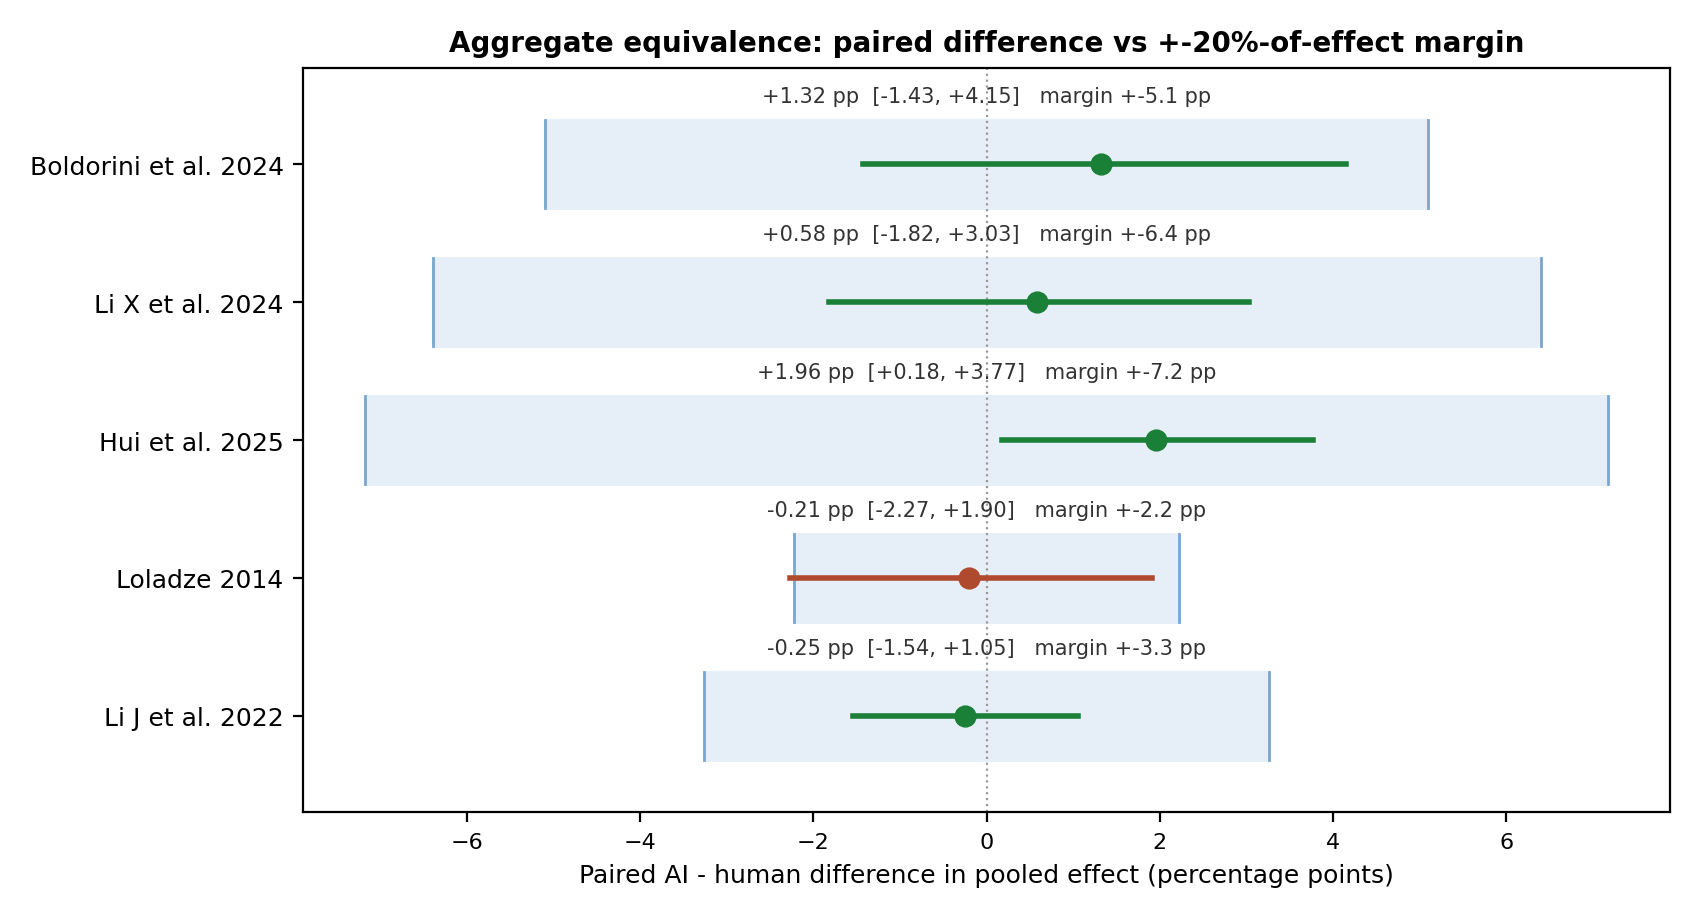
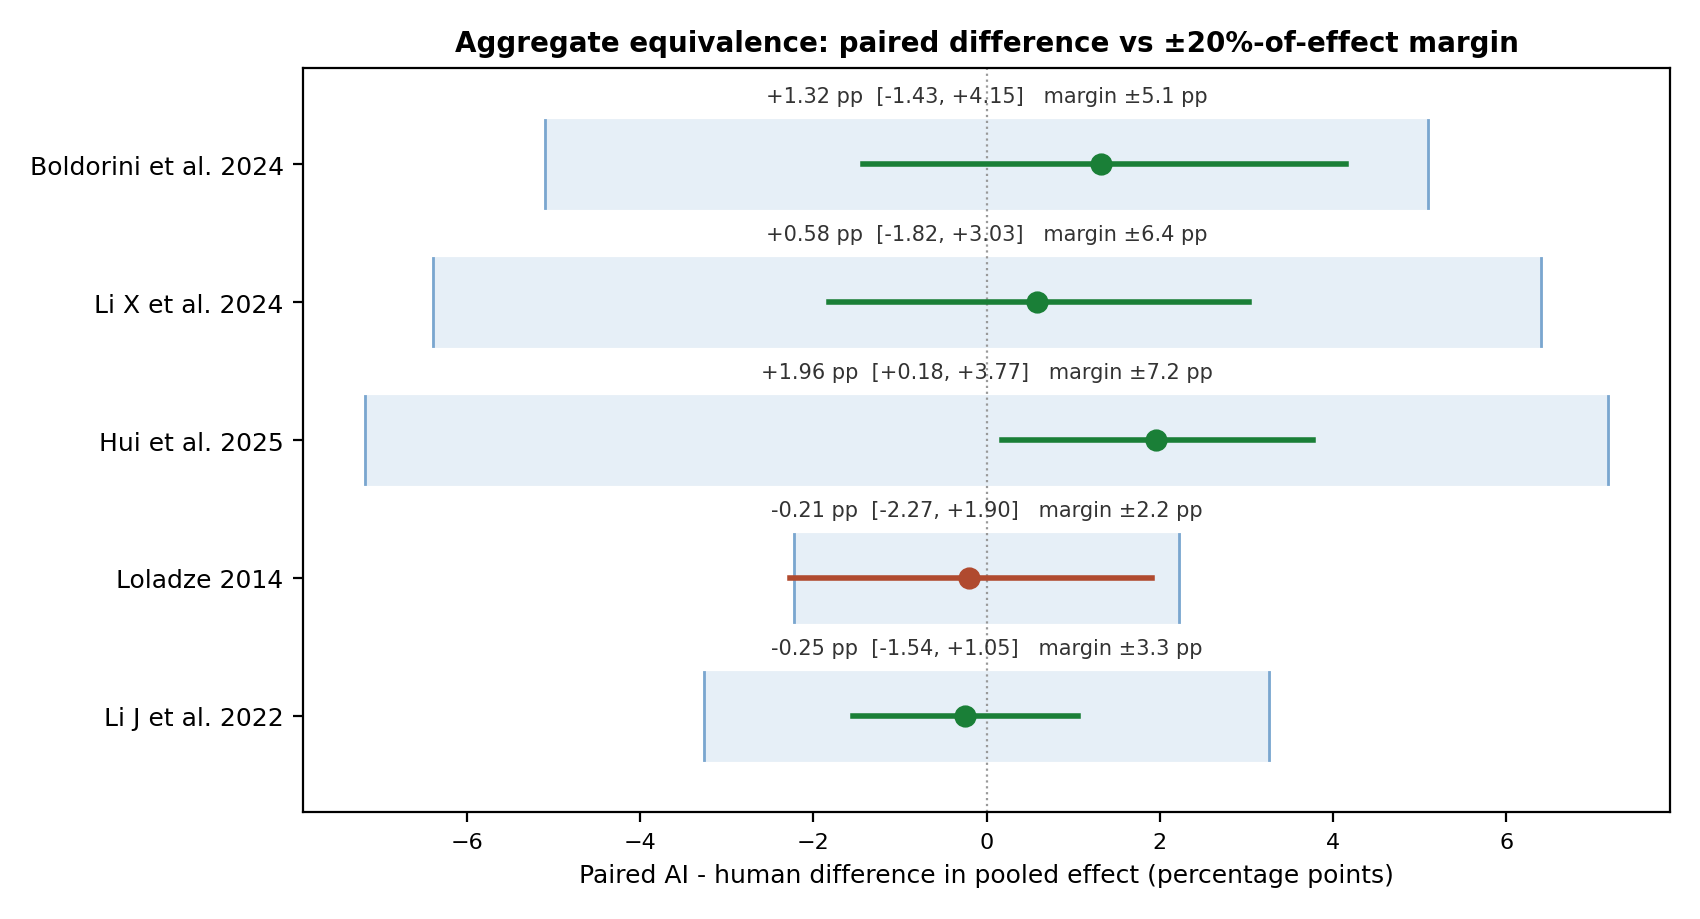
Audit fixes: deterministic Figure 1, relative Bland-Altman path, ± in Figure 2
Sorts matched cells before plotting (fig1 now pixel-reproducible); prints a relative
figure path so EXPECTED_OUTPUT_BLAND_ALTMAN.txt reproduces byte-for-byte from any
working directory; renders the equivalence margin as ± in Figure 2. All five numeric
expected outputs still reproduce byte-for-byte.

diff --git a/make_fig2_equivalence.py b/make_fig2_equivalence.py
@@ -126,14 +126,14 @@ def main():
         col = "#1a7f37" if R["inside"] else "#b04a2f"
         ax.plot([R["lo"], R["hi"]], [y, y], color=col, lw=2, zorder=3)
         ax.plot(R["diff"], y, "o", color=col, ms=7, zorder=4)
-        ax.text(0.0, y+0.42, f"{R['diff']:+.2f} pp  [{R['lo']:+.2f}, {R['hi']:+.2f}]   margin +-{m:.1f} pp",
+        ax.text(0.0, y+0.42, f"{R['diff']:+.2f} pp  [{R['lo']:+.2f}, {R['hi']:+.2f}]   margin ±{m:.1f} pp",
                 ha="center", va="bottom", fontsize=7.5, color="#333333")
     ax.axvline(0, color="#999999", lw=0.8, ls=":")
     ax.set_yticks(ys); ax.set_yticklabels([DISPLAY[d] for d in order], fontsize=9)
     ax.set_xlabel("Paired AI - human difference in pooled effect (percentage points)", fontsize=9)
     ax.set_ylim(-0.7, len(order)-0.3)
     ax.tick_params(axis="x", labelsize=8)
-    ax.set_title("Aggregate equivalence: paired difference vs +-20%-of-effect margin", fontsize=10, fontweight="bold")
+    ax.set_title("Aggregate equivalence: paired difference vs ±20%-of-effect margin", fontsize=10, fontweight="bold")
     fig.tight_layout()
     out=os.path.join(FIGS,"fig2_equivalence.png")
     fig.savefig(out, dpi=200)

diff --git a/make_fig1_fidelity.py b/make_fig1_fidelity.py
@@ -106,7 +106,7 @@ def matched_pairs(ds):
         for r in gt:
             e = effect(r)
             if e is not None: gtC[(remap(r),)].append(e)
-        cells = set(aiC) & set(gtC)
+        cells = sorted(set(aiC) & set(gtC), key=str)
         xs = [sum(aiC[c])/len(aiC[c]) for c in cells]; ys = [sum(gtC[c])/len(gtC[c]) for c in cells]
         return [x*100 for x in xs], [y*100 for y in ys], "% change"
     kfn = keyfn(ds)
@@ -124,7 +124,7 @@ def matched_pairs(ds):
         e = ef_gt(r)
         if e is not None: gtC[kfn(r)]["eff"].append(e)
         if raw_ok(r): gtC[kfn(r)]["raw"].append(ff(r.get("treatment_mean")))
-    cells = set(aiC) & set(gtC)
+    cells = sorted(set(aiC) & set(gtC), key=str)
     if METRIC[ds] == "raw":
         rc = [c for c in cells if aiC[c]["raw"] and gtC[c]["raw"]]
         xs = [sum(aiC[c]["raw"])/len(aiC[c]["raw"]) for c in rc]

diff --git a/make_bland_altman.py b/make_bland_altman.py
@@ -97,4 +97,4 @@ axes[5].axis("off")
 axes[5].text(0.02,0.9,"Figure S5. Bland-Altman agreement of the per-cell\npercentage-change effect (AI - human, pp) on the\noutcome-blind matched cells. Red = mean bias;\ndashed = 95% limits of agreement (mean +/- 1.96 SD).",va="top",ha="left",fontsize=9,family="monospace")
 fig.suptitle("Observation-level limits of agreement (matched cells)",fontsize=13,y=0.995)
 fig.tight_layout(rect=[0,0,1,0.98]); os.makedirs(os.path.dirname(OUT),exist_ok=True); fig.savefig(OUT,dpi=200); plt.close(fig)
-print(f"\nWrote {OUT}")
+print("\nWrote figures/figS5_bland_altman.png")

diff --git a/INCLUDED_SOURCE_PAPERS.md b/INCLUDED_SOURCE_PAPERS.md
@@ -1,0 +1,197 @@
+# Included source papers, by dataset
+
+The source papers the workflow extracted from, grouped by the five reference datasets. Each entry is the paper key (author and year). Papers excluded as mislabelled-PDF sourcing errors are marked. Source PDFs are not redistributed (publisher copyright).
+
+## Boldorini et al. 2024 (predator biocontrol) — 18 papers
+
+1. B01_Ali_2018
+2. B02_Bisseleua_2017
+3. B03_Borkhataria_2012
+4. B04_Classen_2014
+5. B05_Garfinkel_2015
+6. B06_Garfinkel_2020
+7. B07_Gras_2016
+8. B08_Hooks_2003
+9. B09_Ismoilov_2020
+10. B10_Lang_2003
+11. B11_Libran-Embid_2017
+12. B13_Maas_2013
+13. B14_Martin_2013
+14. B15_Mols_2002
+15. B16_Saunders_2016
+16. B17_Snyder_2001
+17. B18_Suenaga_2015
+18. B19_Vichitbandha_2002
+
+## Li X et al. 2024 (biochar, global dataset) — 28 papers
+
+1. Adekiya_2019
+2. Gathorne-Hardy_2009
+3. Li_B_2016
+4. Nobile_2022
+5. Guerena_2013
+6. Asai_2009
+7. Zhang_J_2019
+8. Wang_2012
+9. Deenik_2010
+10. Jose_2013  **[EXCLUDED: mislabelled PDF]**
+11. Liang_Feng_2014
+12. Farrell_2014
+13. Arif_2017
+14. Azeem_2019
+15. Pandit_2018
+16. Omara_2020
+17. Wei_2022
+18. Haefele_2011
+19. Yeboah_2018
+20. Islami_2011
+21. Liu_2019
+22. Xie_2021
+23. Dong_2019
+24. Niu_2017
+25. Shi_2022
+26. Zhang_2021
+27. Malik_2018
+28. Liu_2014
+
+## Loladze 2014 (elevated CO2 minerals) — 50 papers
+
+1. Fernando et al 2012a  —  Fernando et al 2012a  **[EXCLUDED: mislabelled PDF]**
+2. Ziska_1997  —  Ziska et al 1997
+3. Baslam_2012  —  Baslam et al 2012
+4. Finzi_2001  —  Finzi et al 2001
+5. Niinemets_1999  —  Niinemets et al 1999
+6. Azam_2013  —  Azam et al 2013
+7. Woodin_1992  —  Woodin et al 1992
+8. Campbell_2002  —  Cambell & Sage 2002
+9. Barnes_1992  —  Barnes & Pffirrman 1992
+10. Li_2010
+11. Huluka_1994  —  Huluka et al 1994
+12. Wu et al 2004  —  Wu et al 2004
+13. Keutgen_2001  —  Keutgen & Chen 2001
+14. Lieffering_2004  —  Lieffering et al 2004
+15. Pleijel_2009  —  Pleijel & Danielsson 2009
+16. Fernando_2012a  —  Fernando et al 2012b
+17. Fangmeier_2002  —  Fangmeier et al  2002
+18. Al-Rawahy_2013  —  Al-Rawahy et al 2013
+19. Baxter_1994  —  Baxter et al 1994
+20. Overdieck_1993  —  Overdieck 1993
+21. Wilsey_1994  —  Wilsey et al 1994
+22. Blank_2011  —  Blank et al 2011
+23. Nowak_2002  —  Nowak et al 2002
+24. Guo_2011  —  Guo et al 2013
+25. Seneweera_1997  —  Seneweera & Conroy 1997
+26. Peet_1986  —  Peet et al 1986
+27. Mishra_2011  —  Mishra et al 2011
+28. Kuehny_1991  —  Kuehny et al 1991  **[EXCLUDED: mislabelled PDF]**
+29. Wroblewitz_2013  —  Wroblewitz et al 2013
+30. Pal_2003  —  Pal et al 2004
+31. Kanowski_2001  —  Kanowski 2001
+32. Johnson_2003  —  Johnson et al 2003
+33. Johnson_1997  —  Johnson et al 1997  **[EXCLUDED: mislabelled PDF]**
+34. Oksanen_2005  —  Oksanen et al 2005
+35. Schenk_1997  —  Schenk et al 1997
+36. Haase et al 2008  —  Haase et al 2008  **[EXCLUDED: mislabelled PDF]**
+37. Newbery_1995  —  Newbery 1995
+38. Heagle_1993
+39. Pfirrmann_1996  —  Pfirrmann et al 1996
+40. Mjwara_1996  —  Mjwara et al 1996
+41. Luomala_2005  —  Luomala et al 2005
+42. Natali_2009  —  Natali et al 2009
+43. Housman_2012  —  Housman et al 2012
+44. Porter_1984  —  Porter & Grodzinski 1984
+45. Rodenkirchen_2009  —  Rodenkirchen et al 2009  **[EXCLUDED: mislabelled PDF]**
+46. Khan_2013  —  Khan et al 2012
+47. Singh_2013  —  Singh et al 2013
+48. Polley_2011  —  Polley et al 2011
+49. Niu_2013  —  Niu et al 2013
+50. ONeill_1987
+
+## Hui et al. 2025 (zinc biofortification) — 33 papers
+
+1. bharti_2013  —  Bharti, K., Pandey, N., Shankhdhar, D., Srivastava, P.C., Shankhdhar, S.C., 2013. Improvin
+2. cakmak_1997  —  Cakmak, I., Ekiz, H., Yilmaz, A., Torun, B., Koleli, N., Gultekin, I., Alkan, A., Eker, S.  **[EXCLUDED: mislabelled PDF]**
+3. chattha_2017  —  Chattha, M.U., Hassan, M.U., Khan, I., Chattha, M.B., Mahmood, A., Chattha, M.U., Nawaz, M
+4. curtin_2008
+5. dawar_2022
+6. dong_2018  —  Dong, M., Wang, Q., Zhou, Q., Cai, J., Wang, X., Dai, T.B., Jiang, D., 2018. Efficient pro  **[EXCLUDED: mislabelled PDF]**
+7. erdal_2002  —  Erdal, I., Yilmaz, A., Taban, S., Eker, S., Torun, B., Cakmak, I., 2002. Phytic acid and p
+8. forster_2018  —  Forster, S.M., Rickertsen, John, R., Mehring, G.H., Ransom, J.K., 2018. Type and placement
+9. ghasal_2017
+10. grant_1998
+11. kalayci_1999  —  Kalayci, M., Torun, B., Eker, S., Aydin, M., Ozturk, L., Cakmak, I., 1999. Grain yield, zi
+12. khoshgoftarmanesh_2013  —  Khoshgoftarmanesh, A.H., SanaeiOstovar, A., Sadrarhami, A., Chaney, R., 2013. Effect of ti  **[EXCLUDED: mislabelled PDF]**
+13. kumar_2018
+14. Li, M.H., Wang, Z.H., Wang, J.W., Mao, H., 2013. Effect of Zn application methods on wheat  —  Li, M.H., Wang, Z.H., Wang, J.W., Mao, H., 2013. Effect of Zn application methods on wheat  **[EXCLUDED: mislabelled PDF]**
+15. liu_2014  —  Liu, D.Y., Pang, L.L., Zhang, W., Li, Z.X., Wang, X.Z., Yu, F.T. Zou, C.Q., 2014. Effects   **[EXCLUDED: mislabelled PDF]**
+16. liu_2019  —  Liu, D. Y., Liu, Y. M., Zhang, W., Chen, X. P., Zou, C. Q., 2019. Zinc uptake, translocati
+17. morshedi_2012
+18. mosavian_2021
+19. oliver_1994
+20. pahlavanrad_2009  —  Pahlavan-Rad, M.R., Pessarakli, M., 2009. Response of wheat plants to zinc, iron, and mang
+21. peck_2008  —  Peck, A.W., McDonald, G.K., Graham, R.D., 2008. Zinc nutrition influences the protein comp
+22. ramzan_2020
+23. rashid_2019  —  Rashid, A., Ram, H., Zou, C.Q., Rerkasem, B.A., Duarte, A.P., Simunji, S., Yazici, A., Guo
+24. rehman_2018  —  Rehman, A., Farooq, M., Nawaz, A., Al-Sadi, A.M., Al-Hashmi, K.S., Nadeem, F., Ullah, A., 
+25. torun_2001
+26. wang_2012  —  Wang, J.W., 2012. Effects of selenium and zinc on yield and mineral nutrition of main crop
+27. yang_2011  —  Yang, X.W., 2011. Effects of P-Zn relationship and zinc fertilization on zinc nutritional 
+28. yilmaz_1997  —  Yilmaz, A., Ekiz, H., Torun, B., Gultekin, I., Karanlik, S., Bagci, S.A., Cakmak, I., 1997
+29. yilmaz_1998  —  Yilmaz, A., Ekiz, H., Gultekin, I., Torun, B., Barut, H., Karanlik, S., Cakmak, I., 1998. 
+30. zhang_2012  —  Zhang, Y.Q., Sun, Y.X., Ye, Y.L., Karim, M.R., Xue, Y.F., Yan, P., Meng, Q.F., Cui, Z.L.,   **[EXCLUDED: mislabelled PDF]**
+31. zhang_2017
+32. zou_2012  —  Zou, C.Q., Zhang, Y.Q., Rashid, A., Ram, H., Savasli, E., Arisoy, R.Z., Ortiz-Monasterio, 
+33. zulfiqar_2020  —  Zulfiqar, U., Hussain, S., Ishfaq, M., Matloob, A., Ali, N., Ahmad, M., Alyemeni, M.N., Ah
+
+## Li J et al. 2022 (biostimulants) — 49 papers
+
+1. Abdel-Mawgoud_2010_Growth_and_yield_responses__0fbe4357
+2. Alabdulla_2019_Effect_of_foliar_application_of_humic_ac
+3. Ali_2019_Biostimulatory_activities_of_Ascophyl_d13df071
+4. Chen_2021_Effects_of_Seaweed_Extracts_on_the_Growt
+5. Ciepiela_2019_The_effect_of_biostimulants_derived_from
+6. Fichhof_2018_Management_of_Biostimulant_and_Silicon_i
+7. G_osek-Sobieraj_2018_The_Effect_of_Growth_Regu_b8879224
+8. Godlewska_2016_The_effect_of_growth_regulator_on_dry_ma
+9. Godlewska_2018_Assessment_of_the_effect_of_various_bios
+10. Grabowska_2012_The_Effect_of_Cultivar_and_Biostimulant
+11. Knapowski_2019_Crop_stimulants_as_a_factor_determining
+12. Kocira_2019_Effect_of_amino_acid_biostimulant_on_the
+13. Kocira_2020_Biochemical_and_economical_effect_of_app
+14. Kocira_2018_Modeling_biometric_traits_yield_and_nut
+15. Kowalska_2021_Effect_of_Different_Forms_of_Silicon_on
+16. Kuisma_1989_The_effect_of_foliar_application_of_seaw
+17. Boselli 2019
+18. Bavaresco 2020
+19. -s2.0-S1878818119307637-main
+20. -s2.0-S1878818119309879-main
+21. Lola-Luz_2014_Effect_on_yield_total_phenolic_total_f
+22. Mattner_2018_Increased_growth_response_of_strawberry
+23. Matysiak_2018_Herbicides_with_natural_and_synthetic_bi
+24. Michalak_2016_Evaluation_of_supercritical_extracts_of
+25. Mondal_2013_Foliar_application_of_chitosan_improves
+26. Nurdiawati_2019_Liquid_feather_protein_hydrolysate_as_a
+27. Pohl_2019_The_Eggplant_Yield_and_Fruit_Composition
+28. Popescu_2018_Yield_berry_quality_and_physiological_r
+29. Pramanick_2016_Effect_of_seaweed_saps_derived_from_two
+30. Proch_zka_2015_The_possibilities_of_increasing_the_prod
+31. Prokkola_2007_Effect_of_biological_sprays_on_the_incid
+32. Radkowski_2018_Influence_of_foliar_fertilization_with_a
+33. Rahman_2018_Chitosan_biopolymer_promotes_yield_and_s
+34. Soppelsa_2018_Use_of_Biostimulants_for_Organic_Apple_P
+35. -1558-15_3_2018_BR-18-165
+36. Sulakhudin_2019_Application_of_Coastal_Sediments_and_Fol
+37. Wilczewski_2018_Response_of_sugar_beet_to_humic_substanc
+38. -ascophyllum-extract-application-can-promote-p_409cf526
+39. -615-14_3_2017BR-1503
+40. AlrubaieeAlsulaiman2023FullManuscript
+41. Effect_of_Different_Seaweed_Extracts_and
+42. L3638
+43. agriculture-10-00618-v2
+44. al-tawaha-et-al-2011-foliar-application-of-elicito_cdbf60a9
+45. ali
+46. article1400838000_Azarpour_et_al
+47. plants-09-01633
+48. strawberryandchitosan
+49. Arif 2019
+
